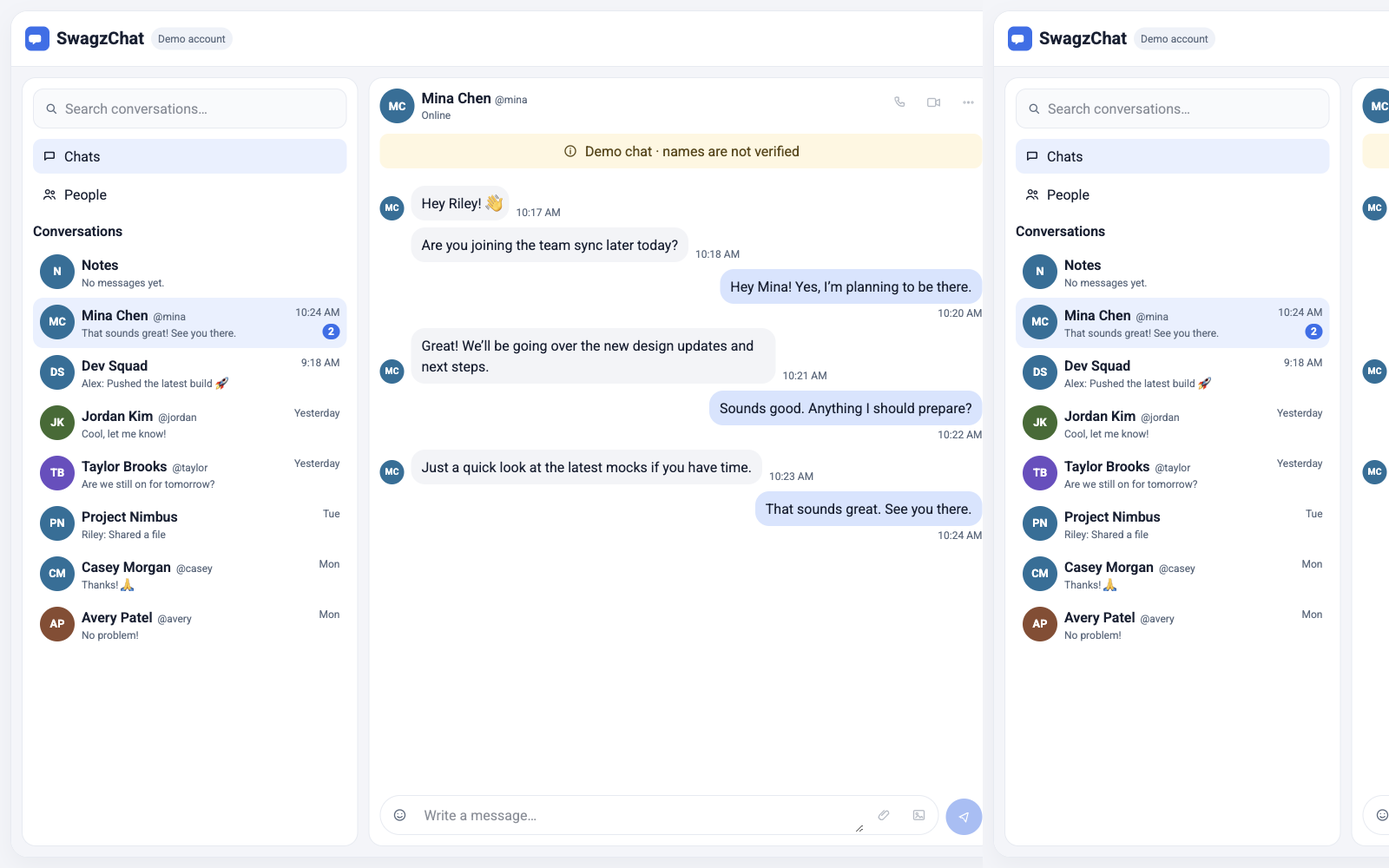
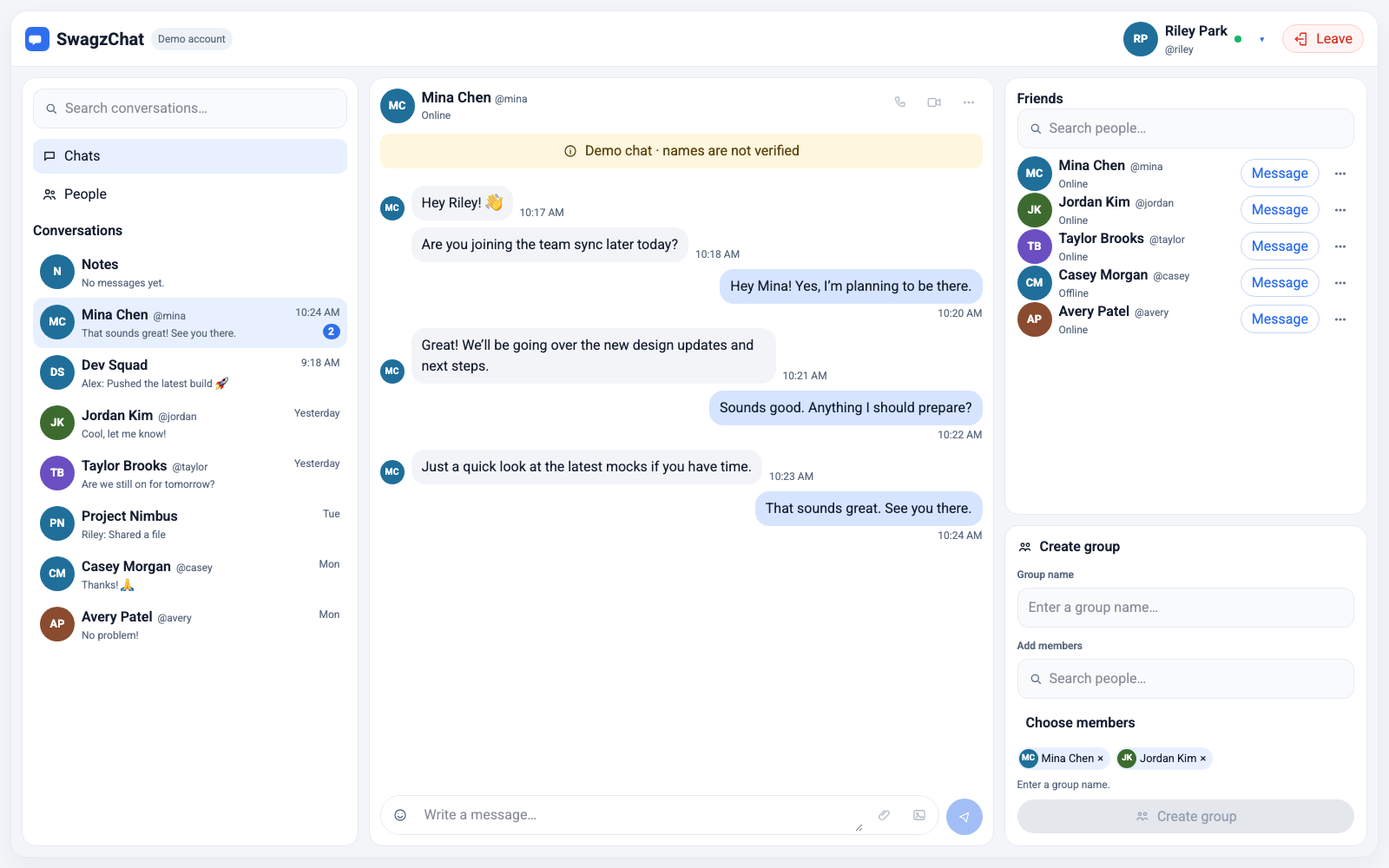
Keep preview Leave from clearing a stored guest and replace the desktop capture.

diff --git a/web/src/app/pages/chat/chat.spec.ts b/web/src/app/pages/chat/chat.spec.ts
@@ -1,6 +1,6 @@
 import { signal } from '@angular/core';
 import { ComponentFixture, TestBed } from '@angular/core/testing';
-import { ActivatedRoute, provideRouter } from '@angular/router';
+import { ActivatedRoute, provideRouter, Router } from '@angular/router';
 import { routes } from '../../app.routes';
 import { ChatDbService } from '../../core/chat-db.service';
 import { GuestService } from '../../core/guest.service';
@@ -11,6 +11,7 @@ describe('Chat', () => {
   const unsubscribed: string[] = [];
   const sent: string[] = [];
   const createdFriends: string[] = [];
+  const left: string[] = [];
   let connect: () => Promise<void> = async () => undefined;
 
   beforeEach(async () => {
@@ -18,6 +19,7 @@ describe('Chat', () => {
     unsubscribed.length = 0;
     sent.length = 0;
     createdFriends.length = 0;
+    left.length = 0;
     connect = async () => undefined;
     await TestBed.configureTestingModule({
       imports: [Chat],
@@ -27,7 +29,9 @@ describe('Chat', () => {
           provide: GuestService,
           useValue: {
             guest: signal({ id: 'me', name: 'Me' }),
-            leave: () => undefined,
+            leave: () => {
+              left.push('leave');
+            },
           },
         },
         {
@@ -144,13 +148,24 @@ describe('Chat', () => {
     expect(root.textContent).toContain("Couldn't load chats.");
     expect(root.querySelector('.spinner')).toBeNull();
   });
+
+  it('clears the stored guest when Leave is pressed', async () => {
+    const fixture = await setup();
+    const router = TestBed.inject(Router);
+    vi.spyOn(router, 'navigateByUrl').mockResolvedValue(true);
+    (fixture.nativeElement.querySelector('.leave') as HTMLButtonElement).click();
+    await fixture.whenStable();
+    expect(left).toEqual(['leave']);
+  });
 });
 
 describe('Chat preview', () => {
   const calls: string[] = [];
+  const left: string[] = [];
 
   beforeEach(async () => {
     calls.length = 0;
+    left.length = 0;
     await TestBed.configureTestingModule({
       imports: [Chat],
       providers: [
@@ -163,7 +178,9 @@ describe('Chat preview', () => {
           provide: GuestService,
           useValue: {
             guest: signal({ id: 'me', name: 'Me' }),
-            leave: () => undefined,
+            leave: () => {
+              left.push('leave');
+            },
           },
         },
         {
@@ -272,5 +289,22 @@ describe('Chat preview', () => {
     (root.querySelector('.composer') as HTMLFormElement).requestSubmit();
     await fixture.whenStable();
     expect(calls).toEqual([]);
+  });
+
+  it('leaves the preview without clearing the stored guest', async () => {
+    const fixture = TestBed.createComponent(Chat);
+    await fixture.whenStable();
+    fixture.detectChanges();
+    const router = TestBed.inject(Router);
+    const urls: string[] = [];
+    vi.spyOn(router, 'navigateByUrl').mockImplementation(async (url) => {
+      urls.push(String(url));
+      return true;
+    });
+    (fixture.nativeElement.querySelector('.leave') as HTMLButtonElement).click();
+    await fixture.whenStable();
+    expect(left).toEqual([]);
+    expect(calls).toEqual([]);
+    expect(urls).toEqual(['/']);
   });
 });

diff --git a/web/src/app/pages/chat/chat.ts b/web/src/app/pages/chat/chat.ts
@@ -554,11 +554,12 @@ export class Chat implements OnDestroy {
     }
   }
 
-  // Preview Leave still calls GuestService.leave(). Clear that stored guest in a later pass.
   protected async leave(): Promise<void> {
-    await this.stopPresence?.();
-    this.stopPresence = undefined;
-    this.guests.leave();
+    if (!this.previewing) {
+      await this.stopPresence?.();
+      this.stopPresence = undefined;
+      this.guests.leave();
+    }
     await this.router.navigateByUrl('/');
   }
 

diff --git a/docs/ui-revamp/visual-fidelity-handoff.md b/docs/ui-revamp/visual-fidelity-handoff.md
@@ -1,97 +1,108 @@
 # SwagzChat Visual Fidelity — Implementation Handoff
 
-**Status: SIGNED OFF — remaining visual pass complete, with the gaps listed below**
+**Status: SIGNED OFF — preview Leave is isolated, and the desktop capture is a single 1600 × 1000 viewport**
 
-**Current baseline:** `e6a87d2` — “Add a read-only reference preview and align the chat workspace with the visual target.”
+**Current baseline:** `14ded14` — “Document the preview screenshot and the visual milestone design.”
 
-**Implementation target:** `web/` (Angular 22, Tailwind CSS 4 configured)
+**UI implementation:** `78b06e6`; **preview foundation:** `e6a87d2`.
+
+**Target:** `web/` (Angular 22; Tailwind CSS 4 configured)
 
 **Reference:** [`reference.png`](./reference.png)
 
-**Product rules and fixture copy:** [`spec.md`](./spec.md)
+**Product rules and exact fixture:** [`spec.md`](./spec.md)
 
 ## Goal
 
-Complete the remaining visual-fidelity work against `reference.png` while preserving the working live guest/chat experience. The reference is 1586 × 992; use a 1600 × 1000 browser viewport for sign-off. Keep all established product decisions in `spec.md`, including Notes pinned first, initials instead of portraits, no unsupported message receipts, honest demo labels, and a disabled Create group action while the group name is empty.
+Hand off the completed UI work for final visual review. Preserve the existing live guest/chat flows and compare the development-only `/preview` route against `reference.png`. Do not schedule the preview, fixture, line icons, separate rail cards, or responsive shell as new implementation work.
 
-This is a focused finishing pass. The development-only preview and fixture have already been implemented in `e6a87d2`; do not schedule them for initial implementation again.
+The reference image is **1586 × 992**. The review viewport is **1600 × 1000**, zoom 100%, device pixel ratio 1, captured from `npm start` at http://127.0.0.1:4200/preview. Phone Back is an explicit close and may clear the selection and draft. The Friends/Chats swap keeps both. Do not change Back in this pass.
 
 ## Authority and scope
 
-- This handoff is authoritative for **current implementation status, remaining milestones, and sign-off evidence**.
-- `spec.md` remains authoritative for **product behavior, design principles, exact copy, fixture details, and intentional deviations from the image**.
-- The older baseline and milestone language in `spec.md` §9 is superseded by this handoff. Do not interpret it as saying the preview still needs to be added.
-- Stay in `web/` for UI work. Do not change the API, database schema, guest identity model, or deployment setup.
+- This handoff is authoritative for implementation status, the remaining sign-off steps, and current visual gaps.
+- `spec.md` is authoritative for product behavior, design principles, exact fixture content, and intentional differences from the image.
+- The earlier milestones in `spec.md` §9 are superseded. The preview and primary visual pass are implemented.
+- UI changes stay in `web/`. Do not change the API, database schema, guest identity model, or deployment setup.
 - Do not reintroduce Angular Material, Angular 8, or Firebase.
 
-## Current implementation baseline
+## Completed implementation
 
-The current app is Angular 22 with standalone components and signals. Tailwind CSS 4 is registered, while the chat page’s styling is primarily in its component CSS files.
-
-Already implemented in `e6a87d2`:
+The current client is Angular 22 with standalone components and signals. Tailwind CSS 4 is configured; the chat workspace’s visual styles are primarily in component CSS.
 
 - Development-only `/preview` route guarded by `isDevMode()` in `web/src/app/app.routes.ts`.
-- Fixed-time fixture in `web/src/app/core/preview-fixture.ts`, with Riley, Notes, Mina selected, exact conversation rows/messages, friend presence, and Mina/Jordan selected for group creation.
-- Preview-specific state initialization and protections in `web/src/app/pages/chat/chat.ts`; normal `/chat` remains guest-guarded and service-backed.
-- Three-pane workspace, separate Friends and Create group cards, SVG line icons, initials/color avatars, exact demo disclosure, and disabled unsupported call/upload actions.
-- Fixture unit coverage in `web/src/app/core/preview-fixture.spec.ts` and preview/live component coverage in `web/src/app/pages/chat/chat.spec.ts`.
+- Fixed-time fixture in `web/src/app/core/preview-fixture.ts`: Riley Park, Notes, Mina selected, reference conversation rows and thread, friend presence, and Mina/Jordan group selection.
+- Preview-specific state and mutation guards in `web/src/app/pages/chat/chat.ts`; live `/chat` stays guest-guarded and service-backed.
+- Three-pane shell, distinct Friends/Create group cards, SVG line icons, initials/color avatars, exact disclosure copy, disabled unsupported call/upload controls, and responsive pane behavior.
+- Group member choices start collapsed behind **Choose members**; selected chips remain visible. Search or the disclosure reveals choices.
+- Unit coverage for fixture data and chat preview/live behavior.
 
-Existing live functionality remains in place: guest entry and Leave; Chats/People; filtering; live conversation selection and messages; send failure handling; read/unread; presence; friend add/message/unfriend; group creation; emoji insertion; pagination; jump-to-latest; responsive pane behavior.
+Existing live flows remain in place: guest entry/Leave, search, conversation selection, messaging and failure recovery, unread/read-on-open, presence, friend actions, group creation, emoji insertion, pagination, jump-to-latest, and responsive pane navigation.
 
-### Current visual review
+## Current visual comparison
 
-The target-viewport review is recorded in [Sign-off evidence](#sign-off-evidence). The earlier 1600 × 768 checkpoint is superseded: at 1600 × 1000 the Friends list and Create group card are both on screen, the member list starts collapsed, incoming initials mark the first bubble of a run, and the header and panes sit in one rounded frame.
+[`captures/preview-1600x1000.png`](./captures/preview-1600x1000.png) is a single 1600 × 1000 viewport from headless Chrome at device pixel ratio 1. The right column is Friends and Create group. The thread, composer, selected Mina row, disclosure, and collapsed **Choose members** control are inside the frame. **Choose members** does not cover the chips or push Create group out of the frame, so its visual weight was left unchanged.
+
+Preview Leave navigates to `/` and does not call `GuestService.leave()`. The stored `swagzchat.guest` entry stays. `/chat` Leave still clears that guest and returns to the entry screen.
+
+Remaining visual differences to retain as intentional or minor:
+
+- Stable initials and colors replace reference portraits.
+- Receipt marks are omitted because the service does not store them.
+- Create group is disabled while its required name is empty.
+- Calls, video, attachments, and images remain disabled with explanations.
+- The **Choose members** control adds a labeled row that is not in the static reference. It stays, because the 1600 × 1000 capture still shows the chips and Create group.
+- Incoming/outgoing timestamp placement and incoming avatar grouping may differ slightly from the image; do not add receipt marks or portraits to address those differences.
 
 ## Design principles
 
-1. **Conversation first:** keep the active thread and composer as the primary work surface; people management must not crowd it.
-2. **Identity stays honest:** show the demo and unverified-name cues; never imply verification, privacy, delivery, or read state the service cannot prove.
-3. **State is visible:** selection, unread, presence, loading, failure, and disabled states need non-color cues as well as color.
-4. **Preserve behavior:** refine existing components and handlers instead of replacing live interactions with fixture-only behavior.
-5. **Progressive disclosure:** show core controls by default and reveal secondary member choices when the user searches or explicitly opens that picker.
-6. **One visual system:** align spacing, typography, borders, avatar treatment, icons, and focus states; use blue for primary/selected, amber for disclosure, and red for Leave/destructive actions.
-7. **Responsive continuity:** compact layouts move among panes without losing selection or draft.
-8. **Accessible by construction:** keyboard operation, visible focus, labels, announcements, readable contrast, and reduced-motion behavior are part of sign-off.
-9. **Preview remains isolated:** preview never creates a guest or calls API/database mutations.
+1. **Conversation first:** keep the active thread and composer as the primary work surface.
+2. **Identity stays honest:** preserve the demo/unverified cues; do not imply verification, privacy, or receipt state the service cannot prove.
+3. **State is visible:** show selection, unread, presence, loading, failure, and disabled states with non-color cues as well as color.
+4. **Preserve behavior:** refine existing components instead of replacing service-backed flows with fixture-only controls.
+5. **Progressive disclosure:** selected members remain visible; secondary member choices appear only when requested or searched. The emoji picker is functional; calls, video, and attachments stay disabled until supported.
+6. **One visual system:** maintain consistent spacing, typography, borders, avatars, icons, and focus styles; blue for primary/selected, amber for disclosure, red for Leave/destructive actions.
+7. **Responsive continuity:** phone Back is an explicit close and may clear the selection and draft. The Friends/Chats swap keeps both. Do not change Back in this pass.
+8. **Accessibility is part of sign-off:** labels, keyboard access, visible focus, announcements, contrast, and reduced motion matter alongside appearance.
+9. **Preview isolation:** preview does not create a guest or call live service/database mutations.
 
-## Remaining implementation plan
+## Remaining plan
 
-### Milestone 1 — Reduce default group-picker density
+These milestones are done. Phone Back is an explicit close and may clear the selection and draft. The Friends/Chats swap keeps both. Do not change Back in this pass.
 
-**Files:** `web/src/app/pages/chat/chat.ts`, `chat.html`, `chat.css` (and related tests).
+### Milestone 1 — Keep preview exit read-only
 
-- Keep the group name field, Add members search, and selected Mina/Jordan chips visible in the reference state.
-- Do not render the unfiltered friend-choice list while the search is empty. Show matching choices when the user enters a non-empty query; selected members remain visible as removable chips.
-- If the existing interaction needs a way to browse without typing, add a clearly labeled, keyboard-operable “Choose members” disclosure control. Keep the default preview collapsed.
-- Preserve selected/unselected state, `aria-pressed`, keyboard operation, group validation, and existing live group-creation handlers.
-- Keep preview group creation inert; the empty name keeps Create group disabled with the reason **Enter a group name.**
+**Files:** `web/src/app/pages/chat/chat.ts`, `chat.spec.ts`.
 
-**Exit checks:** with empty group search, no member-option rows are rendered; typing a friend name reveals only matches; keyboard users can select/remove members; the live service receives the same member IDs as before.
+- In preview mode, make Leave navigate out of `/preview` without calling `GuestService.leave()` or clearing the `swagzchat.guest` local-storage entry.
+- Keep the regular `/chat` Leave flow unchanged: it clears the current guest session and returns to the entry screen.
+- Add a focused test proving preview Leave does not call the guest-session clearing method, while regular Leave still does.
 
-### Milestone 2 — Match message-thread rhythm and workspace frame
+**Exit check:** pressing Leave in `/preview` does not mutate guest local storage or invoke API/database actions; pressing Leave in the regular workspace retains existing behavior.
 
-**Files:** `web/src/app/pages/chat/chat.html`, `chat.css`, and `chat-shell.css`.
+### Milestone 2 — Replace the invalid desktop capture
 
-- At the target viewport, compare column boundaries, outer radius/frame, header height, pane gutters, list row height, thread header, disclosure, message spacing, and composer placement against `reference.png`.
-- Add deterministic initials beside incoming message turns where this improves the reference match; do not introduce portrait assets or duplicate avatars on every consecutive incoming message.
-- Align timestamps consistently with the bubble edge and turn grouping, matching the reference’s compact rhythm without reducing readability.
-- Keep the reference deviations required by `spec.md`: Notes row first, initials/color avatars, no receipt marks, and disabled empty group form.
-- Preserve scrolling ownership: conversation list, message history, and Friends card scroll internally; header and composer remain visible.
+**Files:** `docs/ui-revamp/captures/preview-1600x1000.png`, `docs/ui-revamp/visual-fidelity-handoff.md`.
 
-**Exit checks:** at 1600 × 1000 the complete Friends list, Create group card, message thread, and composer are visible in the intended hierarchy; no pane is clipped or causes page-level horizontal scrolling; live `/chat` still supports its empty-selection state.
+- Capture only the `/preview` page at **1600 × 1000**, browser zoom 100%, device pixel ratio 1. Ensure the screenshot contains one app viewport, all three columns, and no neighboring window or duplicated page content.
+- Compare the capture with `reference.png` side by side. Confirm the complete Friends list, Create group card, thread, and composer are visible.
+- Record the capture source, viewport, zoom, and any remaining differences here. Keep the reference’s settled deviations above.
 
-### Milestone 3 — Verify compact layouts and interaction accessibility
+**Exit check:** the saved PNG is exactly 1600 × 1000 and visually shows one complete SwagzChat preview. A reviewer can compare the app to `reference.png` without reconstructing a viewport from a composite.
 
-- Review **1024 × 768**, **768 × 1024**, and **390 × 844** in addition to desktop.
-- Confirm the Friends card scrolls internally when vertical space is short; verify the group form remains reachable and does not cover or displace the conversation task.
-- Check keyboard access and visible focus for navigation, conversation rows, member search/options, chips/removal, menus, and composer.
-- Check reduced-motion behavior, semantic selected/current state, accessible names, and status/error announcements.
+### Milestone 3 — Optional picker polish, only if needed after the target capture
 
-**Exit checks:** no horizontal page scrolling; selection and draft survive pane changes; all core tasks can be completed by keyboard; status is not conveyed by color alone.
+**Files if changed:** `web/src/app/pages/chat/chat.html`, `chat.css`, and focused tests.
 
-### Milestone 4 — Regression, visual sign-off, and handoff record
+- Inspect **Choose members** at the target viewport. If it competes with the selected chips, reduce its visual weight while preserving a visible label, keyboard operation, and `aria-expanded` state.
+- Keep the default choices collapsed, matching results searchable/reachable, and the currently selected chips visible and removable.
+- Preserve the live group validation rule and keep preview group creation disabled with **Enter a group name.**
 
-Run these documented checks from the project root:
+**Exit check:** the default reference state stays uncluttered; keyboard and pointer users can still reveal, search, select, and remove members; live group creation behavior is unchanged.
+
+### Milestone 4 — Preserve regression and responsive evidence
+
+Existing run results in the previous handoff are recorded below. If UI code changes in Milestone 1 or Milestone 3, rerun the relevant commands and update their results:
 
 ```bash
 (cd web && npm test -- --watch=false)
@@ -99,61 +110,39 @@ Run these documented checks from the project root:
 (cd server && node --test src/handle.test.js)
 ```
 
-Then:
+- Retain and verify the existing **390 × 844** capture and recorded checks at **1024 × 768** and **768 × 1024**.
+- Confirm production build does not expose `/preview` and preview interactions do not call `GuestService.leave()` or account, presence, send, read, friendship, or group mutation methods.
+- Confirm live flows remain service-backed if implementation code changes.
 
-- Capture `/preview` at **1600 × 1000** and **390 × 844**. Record browser zoom and confirm the local development server is serving the current build.
-- Compare the desktop capture with the 1586 × 992 reference and list only remaining gaps, with their impact.
-- Verify a production build does not expose `/preview`; the route is development-only.
-- Confirm `/preview` does not call `waitUntilConnected`, `ensureAccount`, `startPresence`, `markRead`, `sendMessage`, `addFriend`, `removeFriend`, `createFriendConversation`, or `createGroup`.
-- Confirm live guest entry/Leave, search, conversation selection, send/failure recovery, read/unread, presence, friend actions, group validation/creation, emoji insertion, earlier messages, and jump-to-latest still use the existing service-backed behavior.
-- Record exact check results, screenshot paths, changed files, known gaps, and deferred unsupported controls in this file.
-
-**Exit checks:** all three project checks pass; the production route check and preview no-mutation check pass; target-viewport screenshots are reviewed; remaining deviations are documented.
+**Exit check:** screenshots, viewport details, test/build results, production-route result, and preview no-mutation evidence agree with the checked-in source.
 
 ## Acceptance checklist
 
-- [x] Development-only `/preview` route exists and is unavailable outside development mode.
-- [x] Exact, fixed-time reference fixture exists and is isolated from live service data.
-- [x] Preview opens as Riley with Mina selected; Notes remains first; group form begins with Mina and Jordan selected and an empty name.
-- [x] Chat uses the current Angular 22/Tailwind-configured client; no Material/Firebase/Angular 8 assumptions remain.
-- [x] Unfiltered group options are hidden by default and search reveals matching choices accessibly.
-- [x] At 1600 × 1000, full Friends and Create group cards, messages, and composer match the reference hierarchy and density.
-- [x] Message timestamp/avatar rhythm and outer workspace framing receive a desktop comparison pass.
-- [x] Responsive and keyboard/focus checks pass at all specified viewports.
-- [x] Client tests, client production build, and server handle tests pass and are recorded.
-- [x] Final desktop/mobile captures and remaining differences are recorded.
+- [x] Development-only `/preview` and deterministic fixture exist.
+- [x] Live `/chat` remains guest-guarded and service-backed.
+- [x] The group picker starts collapsed with selected chips visible; actions remain accessible.
+- [x] Three-pane layout, separate rail cards, icons, message thread, and composer are implemented.
+- [x] Project tests/build and responsive checks have prior recorded passing results.
+- [x] Preview Leave preserves any existing live guest session and has a focused regression test.
+- [x] Replace the invalid desktop capture with a single, correct 1600 × 1000 screenshot.
+- [x] Review **Choose members** at the target viewport; make a visual adjustment only if it materially improves the comparison.
+- [x] Confirm the final handoff lists only current intentional differences and current verification evidence.
 
-## Sign-off evidence
+## Verification
 
-Captured from `ng serve` at `http://127.0.0.1:4200/preview`, zoom 100%, device pixel ratio 1.
+Recorded from Node 22 after preview Leave isolation:
 
-- Desktop: [`captures/preview-1600x1000.png`](./captures/preview-1600x1000.png) — 1600 × 1000. Friends, Create group, the Mina thread, and the composer are all inside the frame. Page scroll width equals the viewport.
-- Phone: [`captures/preview-390x844.png`](./captures/preview-390x844.png) — 390 × 844. The open thread shows Back and Leave; the message list scrolls inside the pane.
-
-Checks, run with Node 22:
-
-- `(cd web && npm test -- --watch=false)` — 17 passed.
-- `(cd web && npm run build)` — passed. Initial bundle 233.72 kB. No component-style budget error.
-- `(cd server && node --test src/handle.test.js)` — 2 passed.
-- Production `dist` served locally: `/preview` resolves to `/` and shows the name form. The development server still serves the fixture at `/preview`.
-- Preview resource timing contained no account, live, or presence requests. Preview create stays disabled with **Enter a group name.**
-
-Also checked 1024 × 768 and 768 × 1024. At 1024 × 768, opening Friends hides the thread, the Friends card scrolls internally, and the group form stays on screen. Mina stays selected and the composer draft stays. At 768 × 1024 and 390 × 844 there is no page-level horizontal scroll. Focus styles are defined for navigation, rows, member choices, chips, Choose members, and buttons.
-
-Changed for this pass: `web/src/app/pages/chat/chat.html`, `chat.ts`, `chat-shell.css`, `chat.spec.ts`.
-
-### Remaining gaps
-
-- Initials and color avatars stand in for the reference portraits. No delivery or read marks. Both are required by `spec.md`.
-- Incoming initials appear on the first bubble of a consecutive run. The reference repeats a portrait on every incoming bubble.
-- Incoming times sit on the bubble’s trailing edge. Outgoing times sit under that edge.
-- Calls, video, and attachments stay disabled.
-- Preview Leave still calls `GuestService.leave()`. Clearing that stored guest is deferred until after this visual pass.
-- `spec.md` §5 still mentions Material theme tokens, and principle 5 still says to disable emoji. Settled behavior is Tailwind styling and an emoji control that inserts a character.
+- `(cd web && npm test -- --watch=false)` — 19 passed, including preview Leave leaving `swagzchat.guest` alone and `/chat` Leave still clearing it.
+- `(cd web && npm run build)` — passed; initial bundle 233.72 kB.
+- `(cd server && node --test src/handle.test.js)` — 2 passed. Server code was unchanged.
+- Desktop capture: headless Chrome, `npm start` at http://127.0.0.1:4200/preview, window 1600 × 1000, zoom 100%, device pixel ratio 1. File [`captures/preview-1600x1000.png`](./captures/preview-1600x1000.png).
+- Phone capture retained: [`captures/preview-390x844.png`](./captures/preview-390x844.png). Earlier checks at 1024 × 768 and 768 × 1024 still stand; this pass did not change pane layout.
+- In the development server, Leave on `/preview` opened `/` and left `swagzchat.guest` set to the existing guest.
+- Production route behavior from the previous build still applies: `/preview` is development-only. This pass did not change the route.
 
 ## Out of scope
 
-- Rebuilding the existing guest, chat, search, presence, friendship, group, messaging, emoji, pagination, or responsive flows.
-- Authentication/identity redesign; API/schema/database changes; storing fixture data in MongoDB.
-- Calls, video, attachment/image upload, delivery/read receipts, or deployment.
-- Reintroducing Angular Material, Angular 8, or Firebase.
+- Changing phone Back. It is an explicit close and may clear the selection and draft. The Friends/Chats swap keeps both.
+- Rebuilding guest, chat, search, presence, friendship, group, messaging, emoji, pagination, or responsive features already implemented.
+- Authentication/identity redesign, API/schema/database changes, fixture data in MongoDB, or deployment.
+- Calls, video, attachment/image upload, delivery/read receipts, or reintroducing Angular Material, Angular 8, or Firebase.
